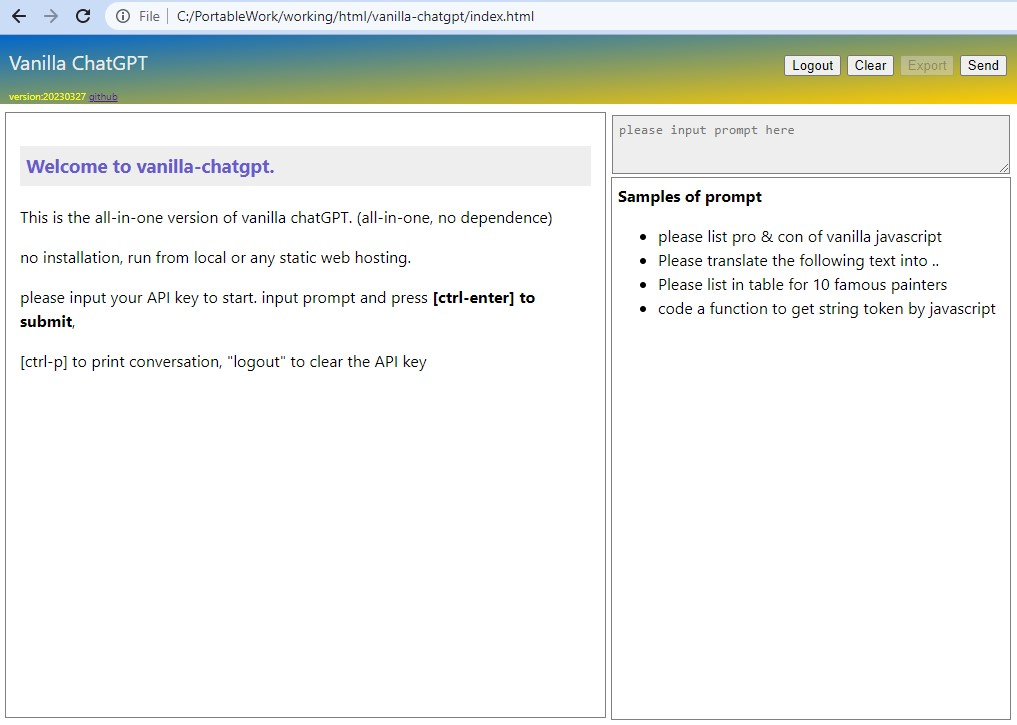
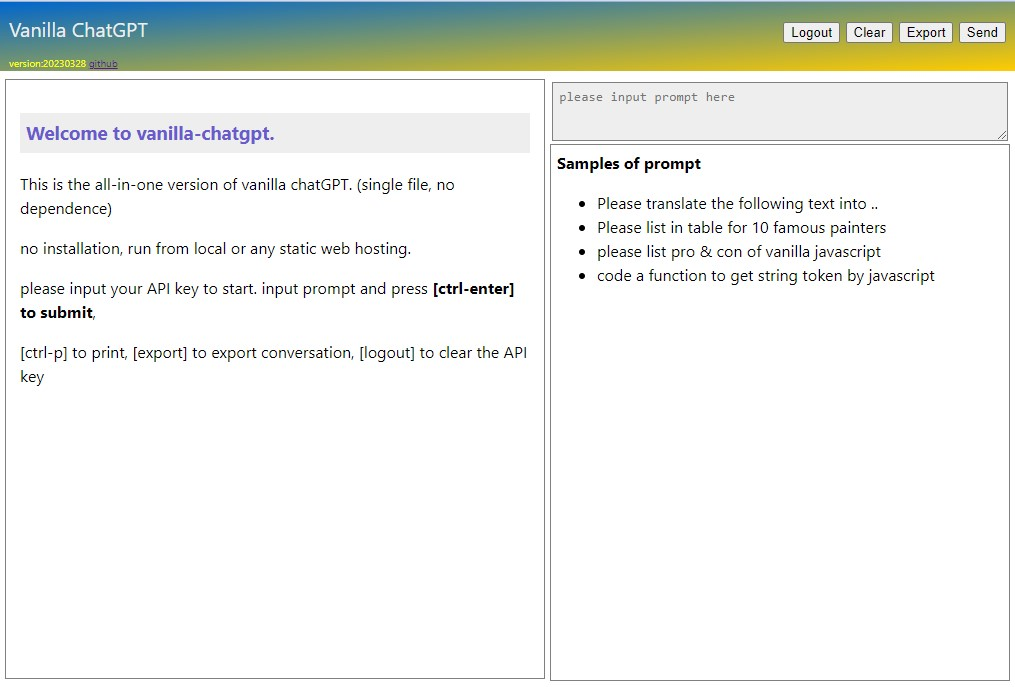
minor update

Changed region(s): [[0.0, 0.0, 1.0, 1.0], [0.0, 0.1834, 0.5498, 0.3668], [0.0, 0.3974, 0.5498, 0.5502]]

diff --git a/source/index.html b/source/index.html
@@ -38,7 +38,7 @@ header { color:#eee; padding:12px; font-size:20px; height:45px }
 <header>
   <div id=heading style="float:left">Vanilla ChatGPT<br>
     <span id=message style="color:yellow;font-size:10px">
-        version:20230328 <a href="https://github.com/casualwriter/vanilla-chatgpt">github</a>
+        version:20230328 <a href="https://github.com/casualwriter/vanilla-chatgpt" target=_NEW>github</a>
     </span>
   </div>
   <div id=menu style="float:right;">
@@ -51,7 +51,7 @@ header { color:#eee; padding:12px; font-size:20px; height:45px }
 
 <div id="content" style="margin:8px;">
   <div id="right">
-     <textarea id=prompt rows=3 placeholder="please input prompt here"></textarea>
+     <textarea id=prompt rows=3 placeholder="please input prompt here..<ctrl-enter> to send"></textarea>
      <div id="list" style="height:calc(100vh - 163px)">
         <b>Samples of prompt</b>
         <ul>

diff --git a/source/vanilla-chatgpt.html b/source/vanilla-chatgpt.html
@@ -30,7 +30,7 @@ header { color:#eee; padding:12px; font-size:20px; height:45px }
 <header>
   <div id=heading style="float:left">Vanilla ChatGPT<br>
     <span id=message style="color:yellow;font-size:10px">
-        version:20230328 <a href="https://github.com/casualwriter/vanilla-chatgpt">github</a>
+        version:20230328 <a href="https://github.com/casualwriter/vanilla-chatgpt" target=_NEW>github</a>
     </span>
   </div>
   <div id=menu style="float:right;">
@@ -43,7 +43,7 @@ header { color:#eee; padding:12px; font-size:20px; height:45px }
 
 <div id="content" style="margin:8px;">
   <div id="right">
-     <textarea id=prompt rows=3 placeholder="please input prompt here"></textarea>
+     <textarea id=prompt rows=3 placeholder="please input prompt here..<ctrl-enter> to send"></textarea>
      <div id="list" style="height:calc(100vh - 163px)">
         <b>Samples of prompt</b>
         <ul>

diff --git a/README.md b/README.md
@@ -2,20 +2,21 @@
 
 A minimal ChatGPT client by vanilla javascript, run from local or any web host
 
-For example, 
+For example, direct run from github source folder
 
 * https://raw.githack.com/casualwriter/vanilla-chatgpt/main/source/index.html
 * https://raw.githack.com/casualwriter/vanilla-chatgpt/main/source/vanilla-chatgpt.html
 
 ![](https://github.com/casualwriter/vanilla-chatgpt/blob/main/vanilla-chatgpt.jpg)
 
+
 This repository includes 2 version of vanilla-chatGPT, and a js library for chatGPT API.
 
-1. [index.html](https://github.com/casualwriter/vanilla-chatgpt/blob/main/source/index.html) is the all-in-one version of vanilla-chatGPT. no dependence.
+1. [index.html](https://github.com/casualwriter/vanilla-chatgpt/blob/main/source/index.html) is a single file version of vanilla-chatGPT. no dependence.
 2. [vanilla-chatgpt.html](https://github.com/casualwriter/vanilla-chatgpt/blob/main/source/vanilla-chatgpt.html) is the minimum version using casual-markdown.js and vanilla-chatgpt.js.
-2. [vanilla-chatgpt.js](https://github.com/casualwriter/vanilla-chatgpt/blob/main/source/vanilla-chatgpt.js) the js library reusable for your chatGPT client.
+3. [vanilla-chatgpt.js](https://github.com/casualwriter/vanilla-chatgpt/blob/main/source/vanilla-chatgpt.js) the js library reusable for your chatGPT client.
 
-The program is very simple in 360/150 lines of code. You may revise it for further customization.
+The program is very simple in 360/150 lines of code, easy to be revised in your purposes.
 
 
 ### vanilla-chatgpt.js
@@ -24,8 +25,8 @@ The program is very simple in 360/150 lines of code. You may revise it for furth
 
 * `chat.stream(prompt)` submit prompt in stream mode.
 * `chat.send(prompt)` submit prompt in normal mode.
-* `chat.onmessage(text)` event triggered when message received.
-* `chat.oncomplete(text)` event triggered when message completed.
+* `chat.onmessage(text)` will be triggered when message received.
+* `chat.oncomplete(text)` will be triggered when message completed.
 * `chat.controller.abort()` to abort fetch() process 
 * `chat.export()` to export conversation to markdown file
 * `chat.history[]` keep the conversation history
@@ -38,12 +39,12 @@ Fork [this repo](https://github.com/casualwriter/vanilla-chatgpt),
 or just run from [github](https://raw.githack.com/casualwriter/vanilla-chatgpt/main/source/index.html), 
 or download and run locally.
 
-1. ``input OPENAI_API_KEY`` when load the page first time. API key will be stored in browser local storage.
-1. ``Prompt Samples`` shows in right-corner, click to select it.
-1. ``Input prompt`` and click `[Send]` button or press `ctrl-enter`
+1. ``input OPENAI_API_KEY`` when load the page first time. (will be stored in browser local storage)
+1. ``Sample prompts`` shows in right-corner, click to select it.
+1. ``Input prompt`` and click `[Send]` or press `<ctrl-enter>` to submit 
 1. ``Submitted prompts`` will show in right corner, click to jump to corresponding section.
 1. Press [ctrl-p] to `print conversation`
-1. Click on [export] button, to export conversation to markdown file.
+1. Click on [export] button, to `export conversation` to markdown file.
 1. Click on [clear] button, to `clear conversation history`
 1. Click on **[logout]** button, to `clear OPENAI_API_KEY` from local storage.
 
